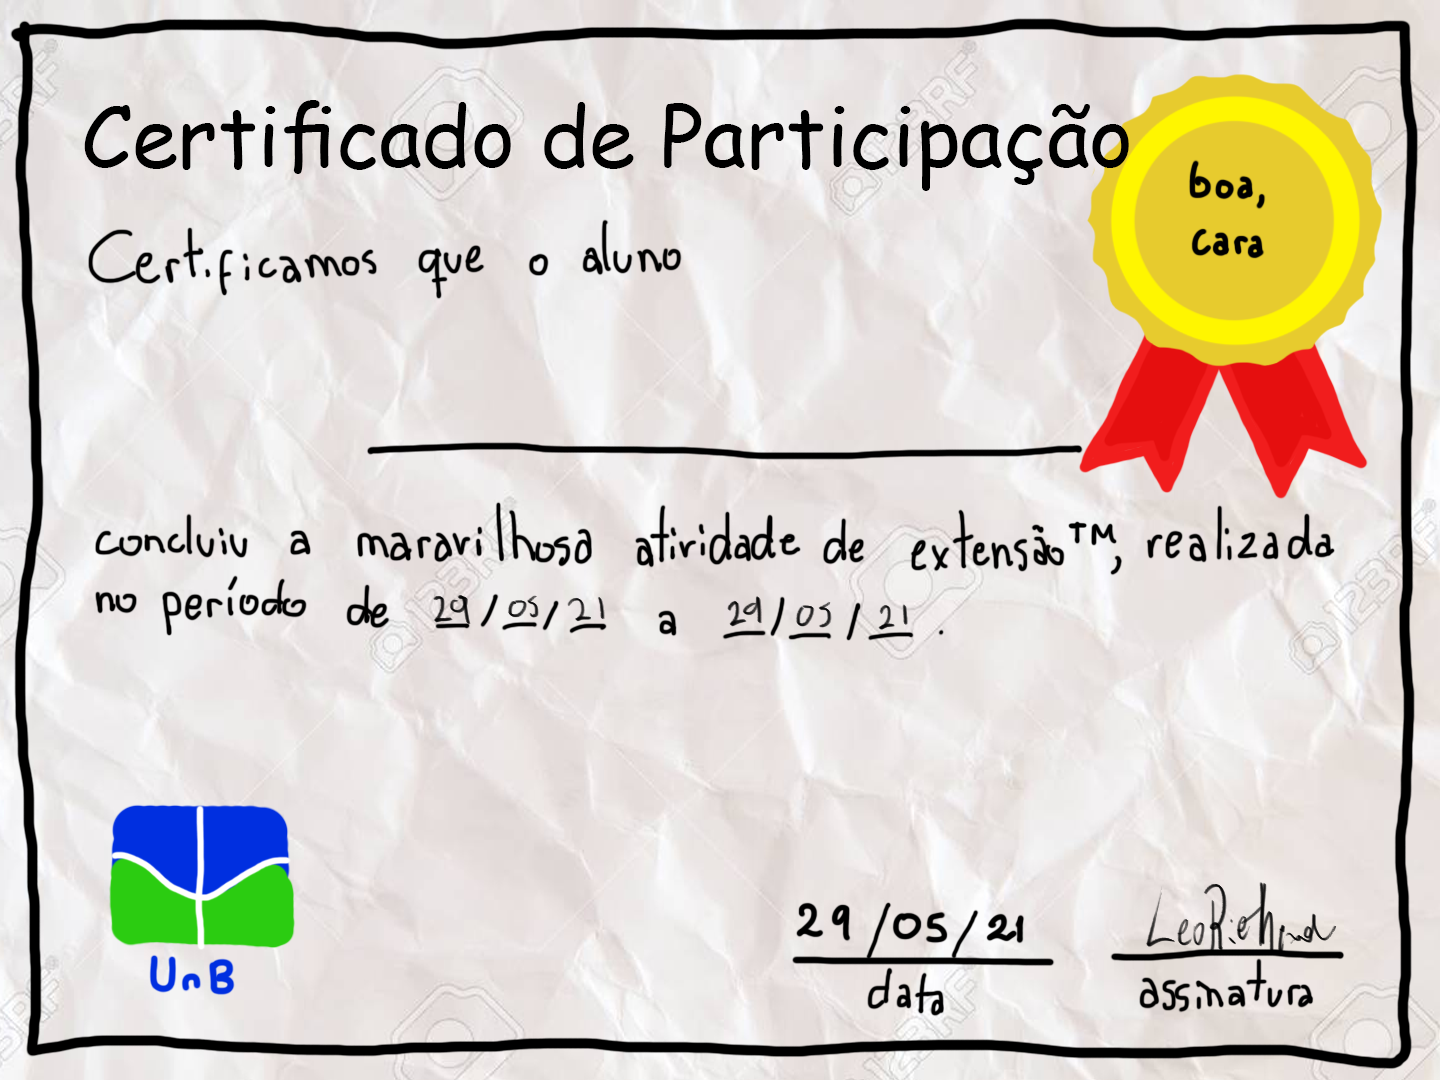
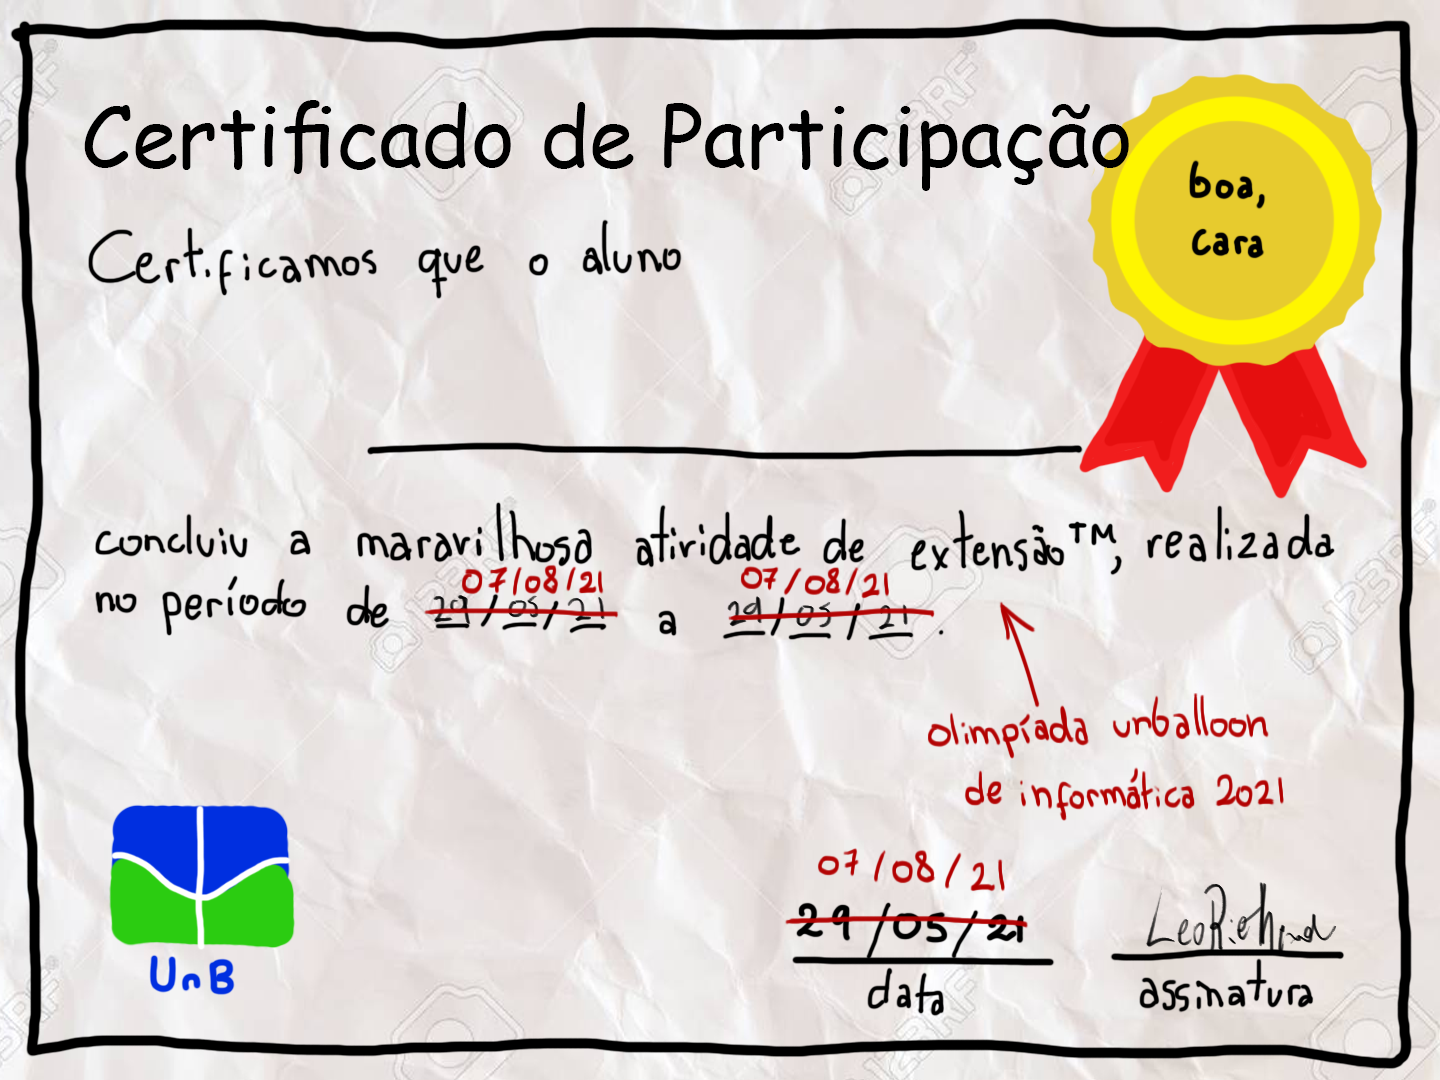
Update certificate

diff --git a/index.html b/index.html
@@ -4,7 +4,7 @@
     <meta charset="UTF-8">
     <meta http-equiv="X-UA-Compatible" content="IE=edge">
     <meta name="viewport" content="width=device-width, initial-scale=1.0">
-    <title>Certificado da II Maratona de Programação UnBalloon</title>
+    <title>Certificado da Olimpíada UnBalloon de Informática 2021</title>
 
     <style>
         body, html {

diff --git a/README.md b/README.md
@@ -1,3 +1,3 @@
-# Certificado da II Maratona de Programação UnBalloon
+# Certificado da Olimpíada UnBalloon de Informática 2021
 
 [Aperte aqui para receber seu certificado](https://leoriether.github.io/certificado-unballoon/)
